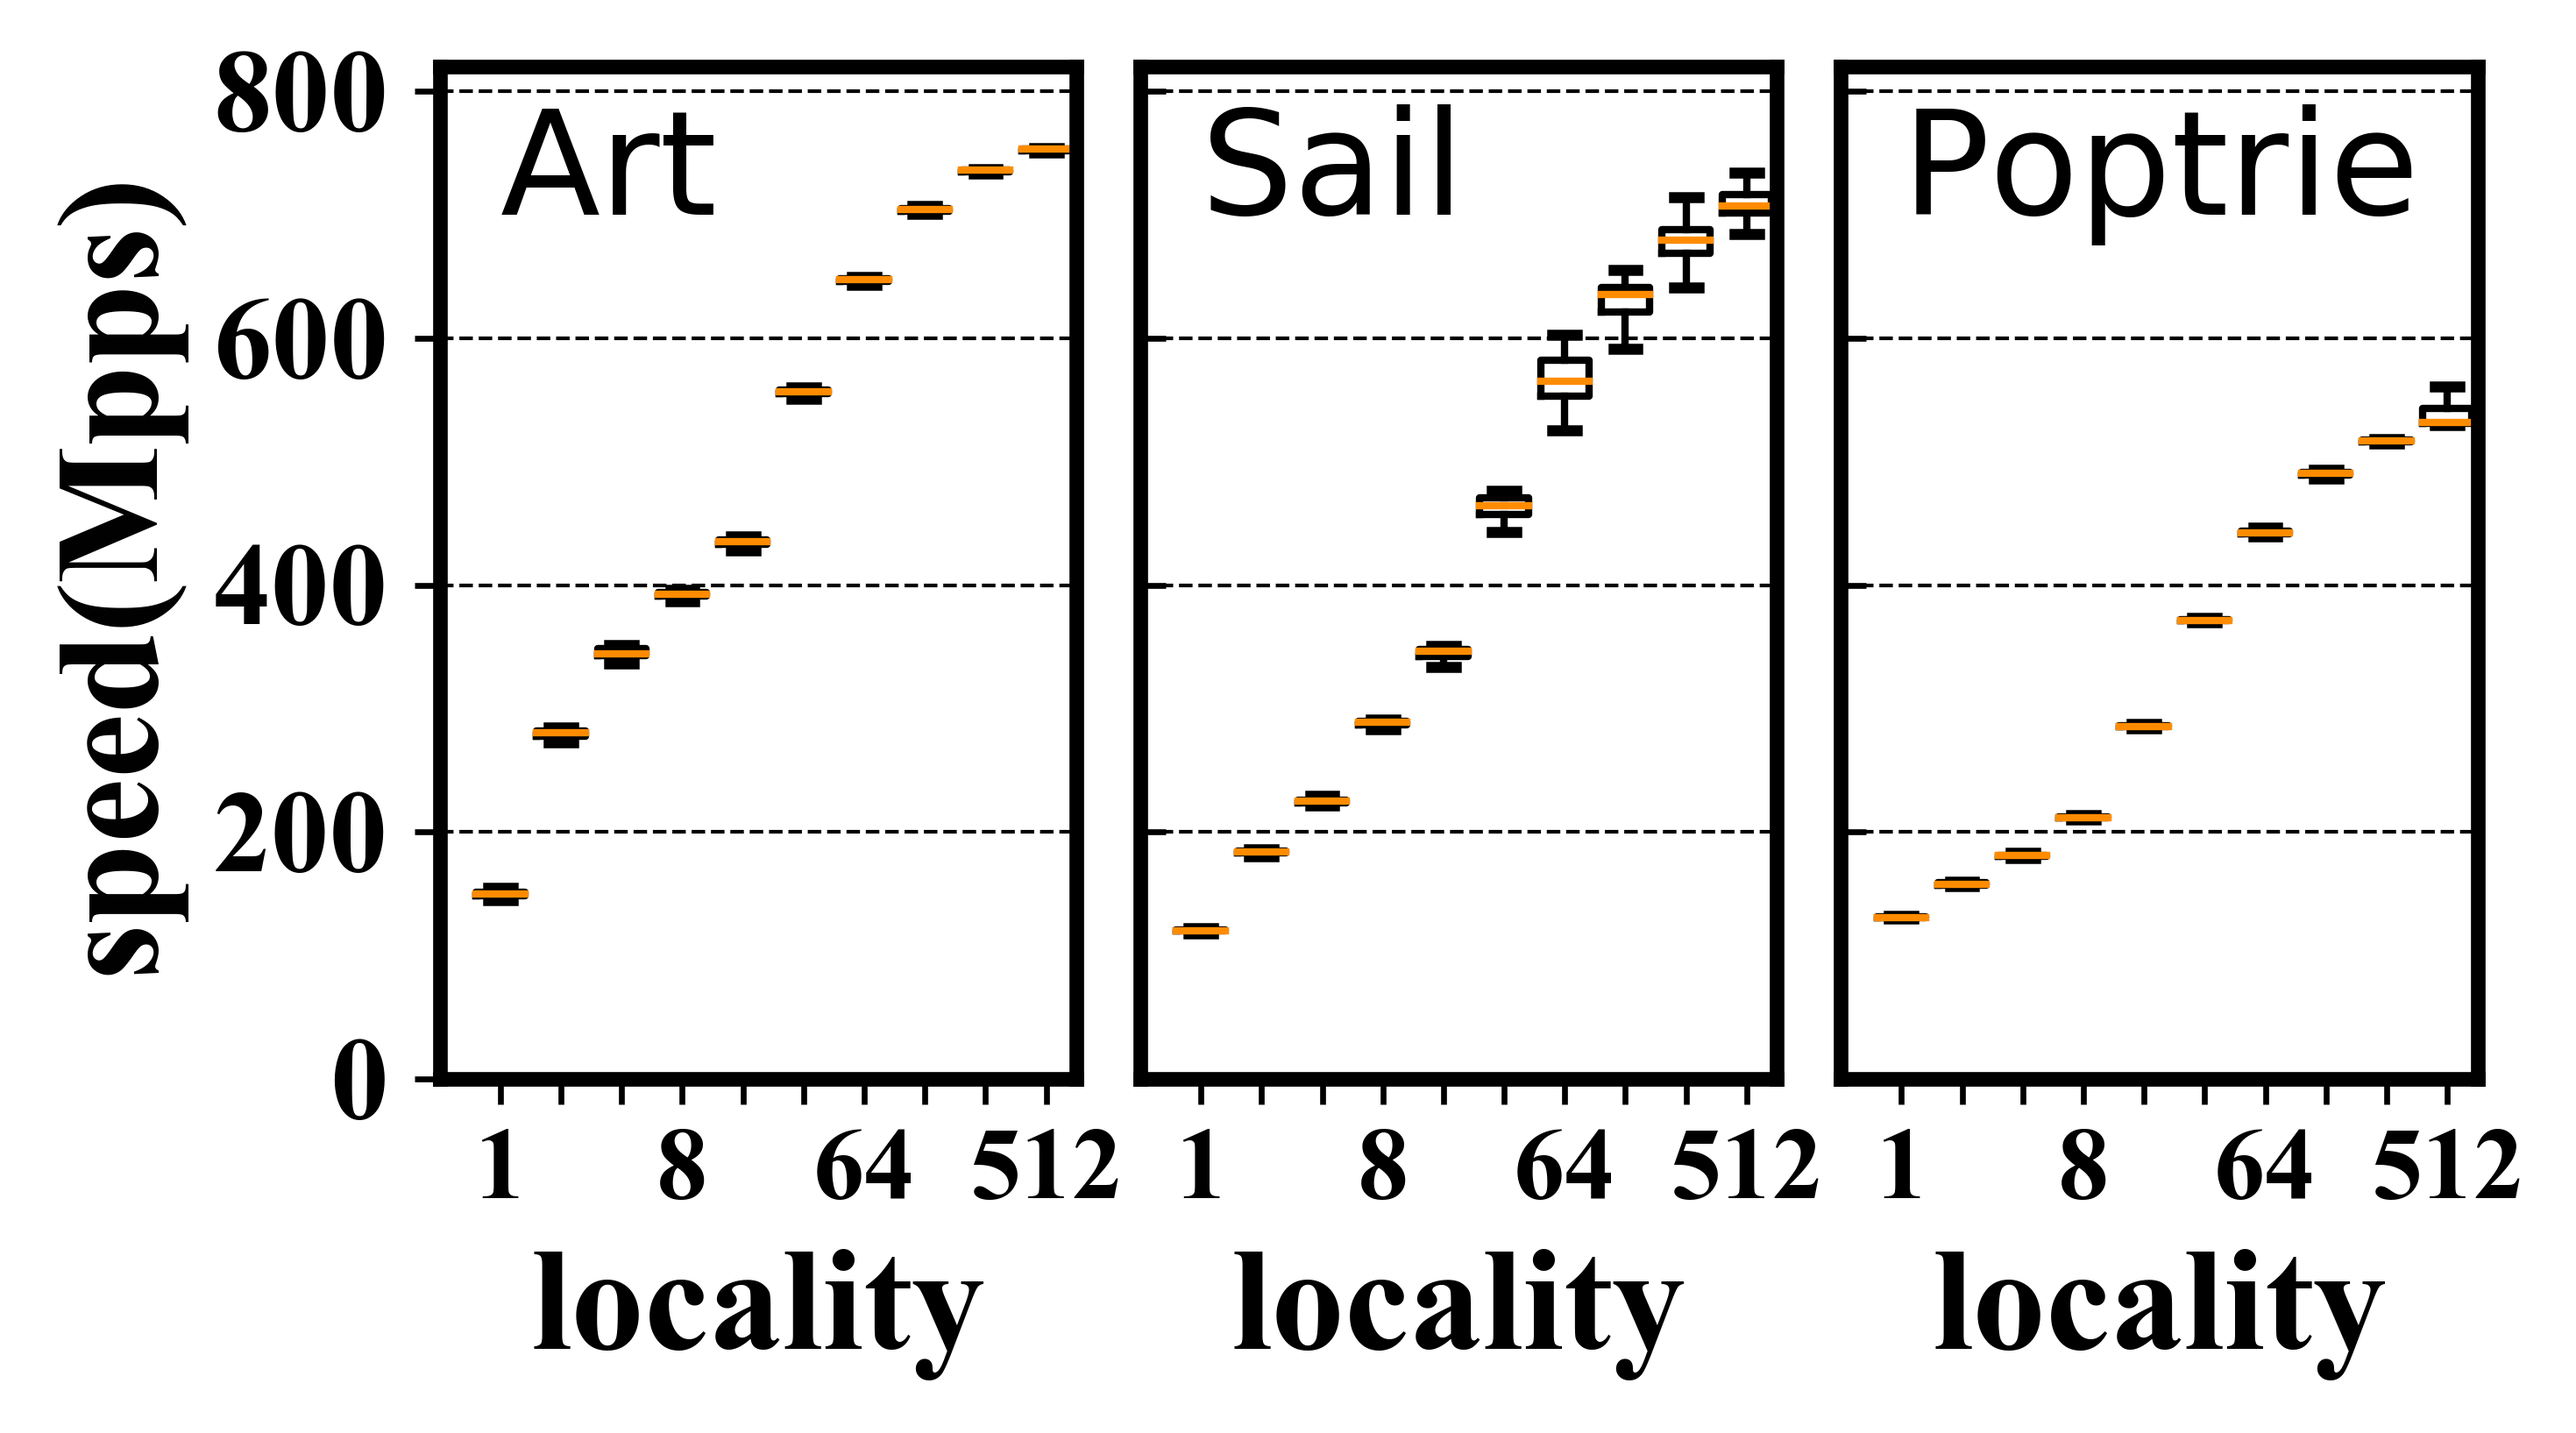
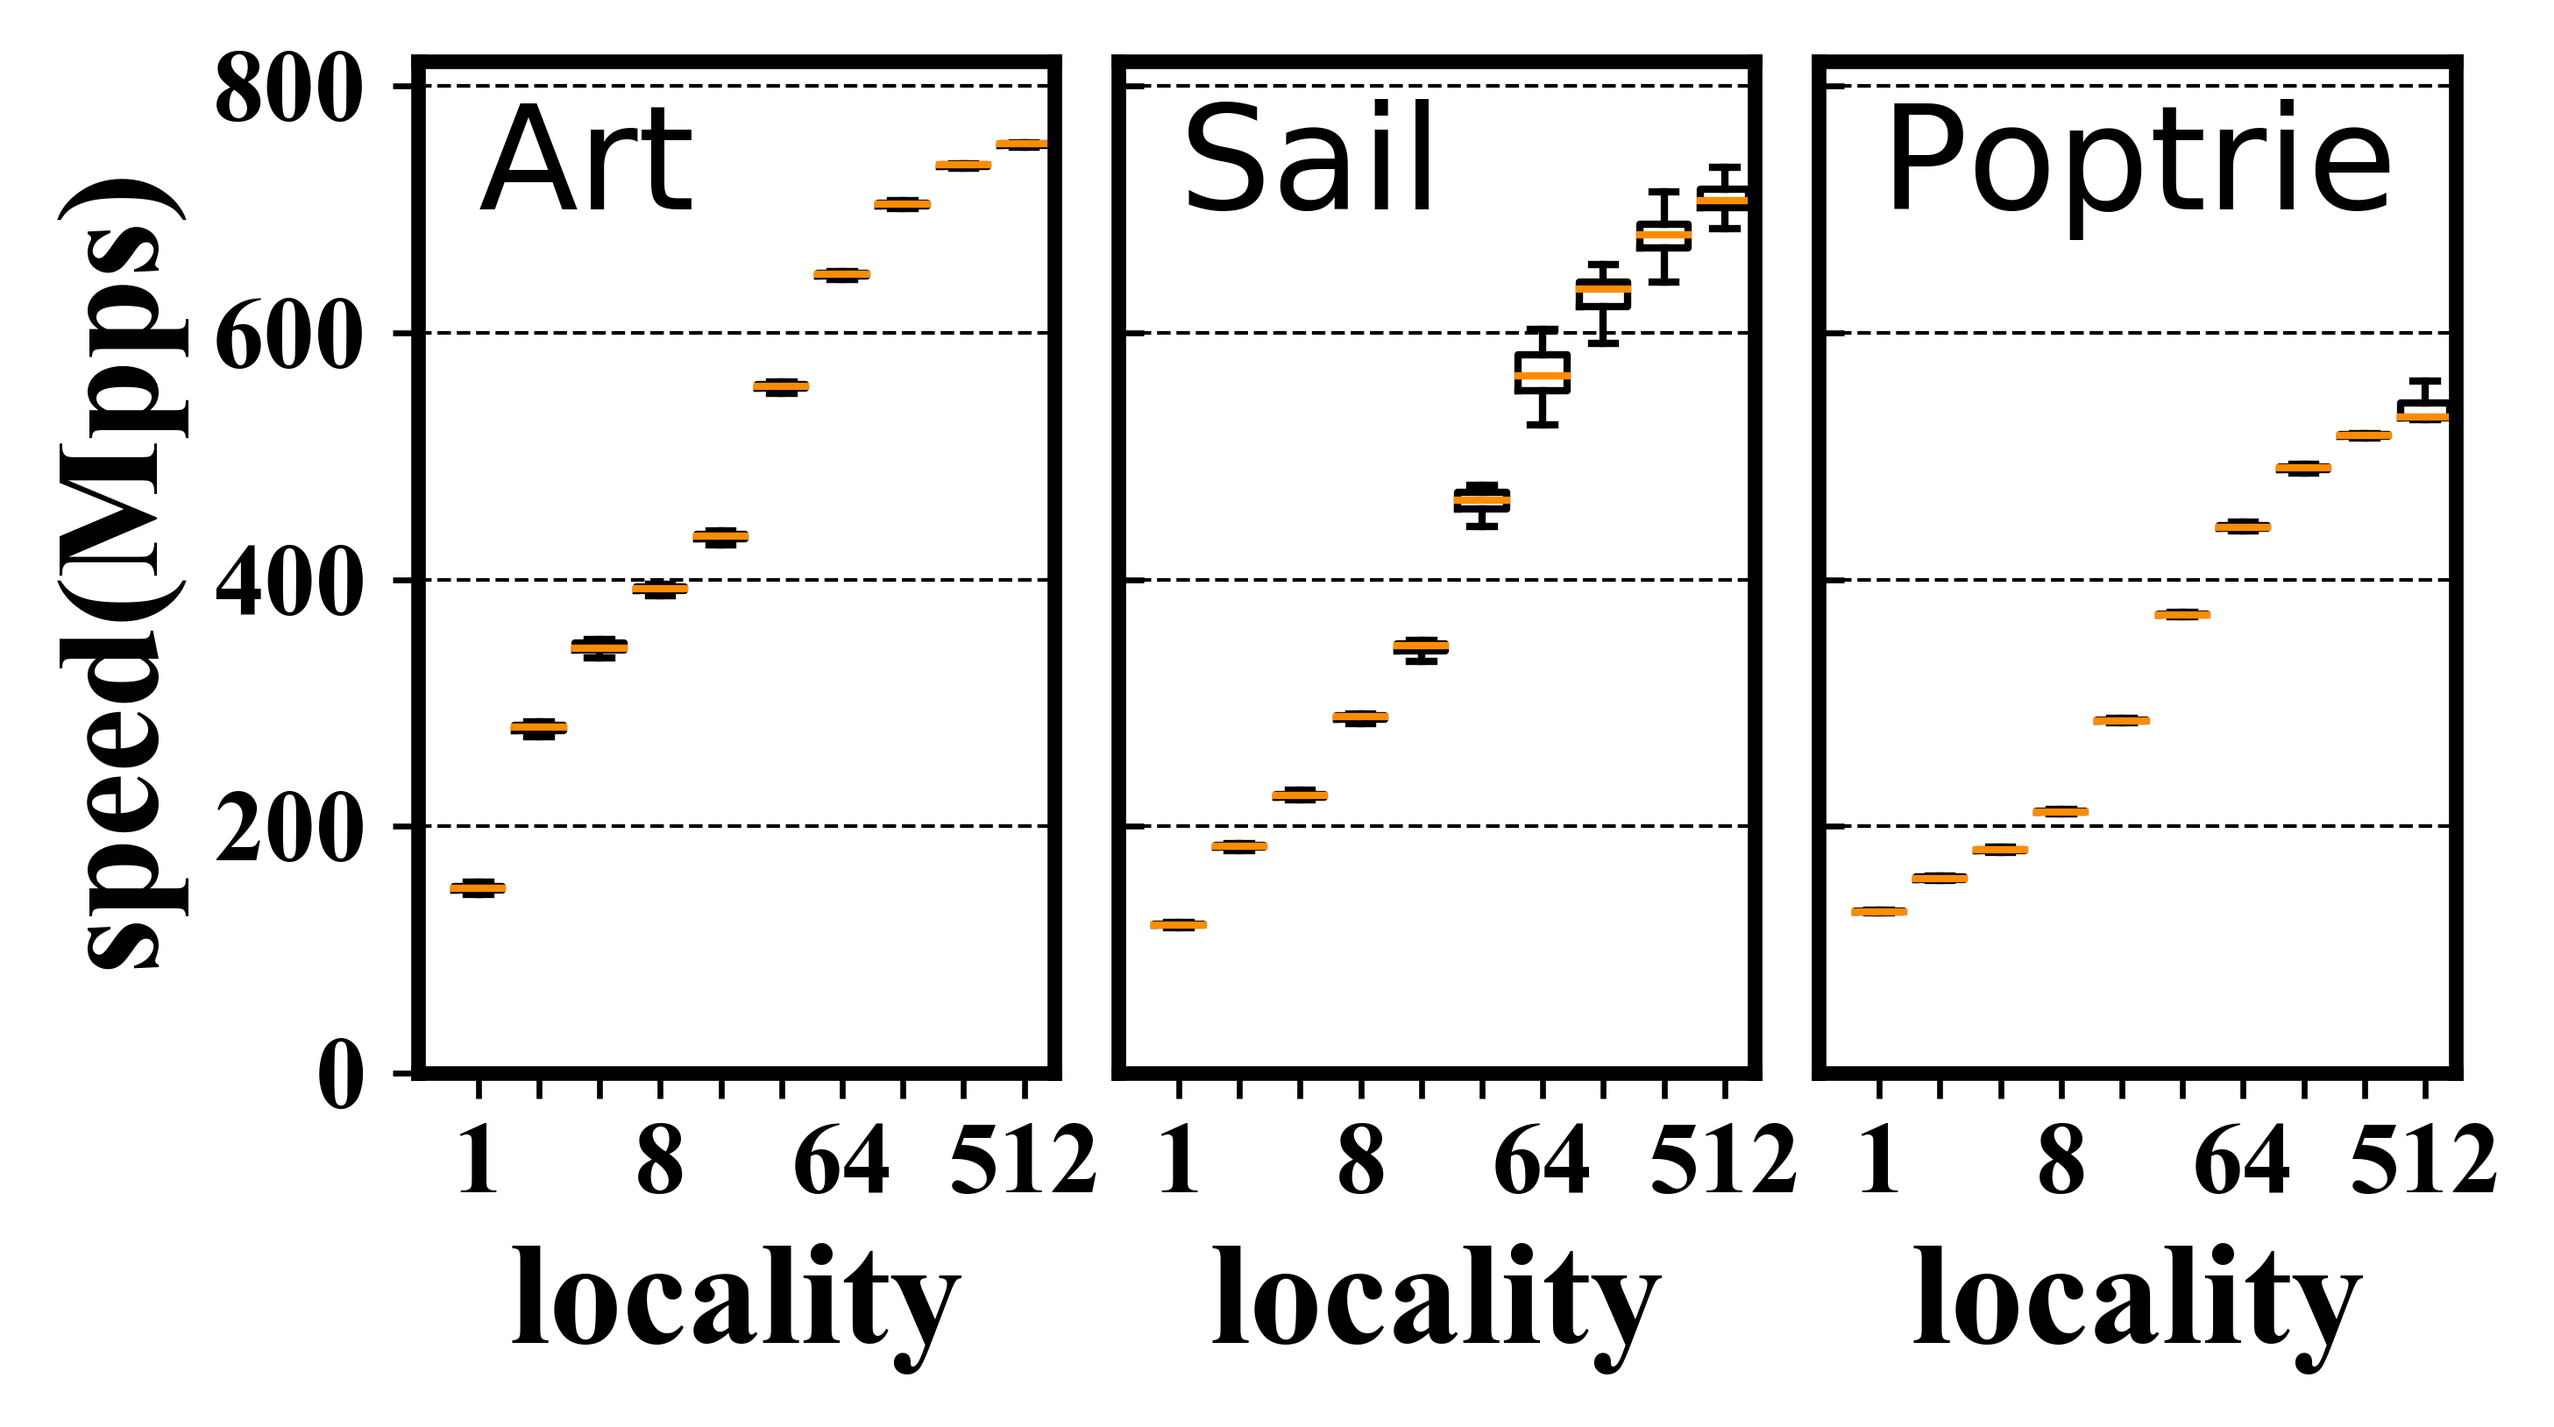
update example2 code

diff --git a/example2.py b/example2.py
@@ -4,9 +4,9 @@
 # @Date: 2020/1/7 19:29
 
 from utils import Utils
-import matplotlib.pyplot as plt
-import matplotlib
 import numpy as np
+from plot import Plot
+from plot import Save
 
 # 这是一个箱型图例子
 name = ['art', 'sail', 'poptrie']
@@ -16,72 +16,106 @@ header, sail_data = Utils.read_csv('sail' + '_loc512_rand.csv')
 sail_data = sail_data[1:]
 poptrie_data = Utils.read_csv('poptrie' + '_loc512_rand.csv', only_data=True)[1:]
 
-plt.figure(1, figsize=(5, 2.5), dpi=600)
-plt.tight_layout()
-plt.subplots_adjust(wspace=0.1)
-ax = plt.subplot(131)
-ax.set_axisbelow(True)  # 设置网格线和坐标轴是在figure的上面还是在下面
-ax.spines['bottom'].set_linewidth(2)  # 设置坐标轴宽度
-ax.spines['right'].set_linewidth(2)
-ax.spines['top'].set_linewidth(2)
-ax.spines['left'].set_linewidth(2)
-f = plt.boxplot(art_data, showfliers=False, widths=0.8)
-for cap in f['caps']:  # 把箱型图中的错误符号进行设置
-    cap.set(color='black', linewidth=1.5)
-for median in f['medians']:  # 把箱型图中的中位数符号进行设置
-    median.set(color='darkorange', linewidth=1)
-plt.xlim(0,10.5)
-plt.xticks(range(1, 11, 1), ['1', '', '', '8', '', '', '64', '', '', '512'], fontproperties='Times New Roman', size=14)
-plt.ylim(0, 820)
-plt.yticks(np.arange(0, 1000, 200), fontproperties='Times New Roman', size=16)
-font = {'family': 'Times New Roman', 'size': 20}
-plt.xlabel('locality', font)
-plt.ylabel('speed(Mpps)', font)
-plt.grid(axis='y', color='black', linewidth=0.5, linestyle='--')
-ax.text(1, 700, name[0].capitalize(), fontsize=20)
+Plot.create_figure((5, 2.5))
+Plot.plot_setting(131)
+f = Plot.plot_box(art_data)
+Plot.plot_xlim(0, 10.5)
+Plot.plot_xticks(np.arange(1, 11, 1), ['1', '', '', '8', '', '', '64', '', '', '512'], font_size=14)
+Plot.plot_ylim(0, 820)
+Plot.plot_yticks(np.arange(0, 1000, 200), font_size=14)
+Plot.plot_xlable('locality', font_size=20)
+Plot.plot_ylabel('speed(Mpps)', font_size=20)
+Plot.plot_grid()
+Plot.plot_text(1, 700, name[0].capitalize())
 
-matplotlib.rcParams['ytick.direction'] = 'in'  # 设置坐标轴刻度朝向
-ax = plt.subplot(132)
-ax.set_axisbelow(True)  # 设置网格线和坐标轴是在figure的上面还是在下面
-ax.spines['bottom'].set_linewidth(2)  # 设置坐标轴宽度
-ax.spines['right'].set_linewidth(2)
-ax.spines['top'].set_linewidth(2)
-ax.spines['left'].set_linewidth(2)
-f=plt.boxplot(sail_data, showfliers=False, widths=0.8)
-for cap in f['caps']:  # 把箱型图中的错误符号进行设置
-    cap.set(color='black', linewidth=1.5)
-for median in f['medians']:  # 把箱型图中的中位数符号进行设置
-    median.set(color='darkorange', linewidth=1)
-plt.xlim(0,10.5)
-plt.xticks(range(1, 11, 1), ['1', '', '', '8', '', '', '64', '', '', '512'], fontproperties='Times New Roman', size=14)
-plt.ylim(0, 820)
-plt.yticks([200, 400, 600, 800], ['', '', '', ''], fontproperties='Times New Roman', size=16)
-font = {'family': 'Times New Roman', 'size': 20}
-plt.xlabel('locality', font)
-plt.grid(axis='y', color='black', linewidth=0.5, linestyle='--')
-ax.text(1, 700, name[1].capitalize(), fontsize=20)
+Plot.plot_setting(132, ytick_dircetion='in')
+f = Plot.plot_box(sail_data)
+Plot.plot_xlim(0, 10.5)
+Plot.plot_xticks(np.arange(1, 11, 1), ['1', '', '', '8', '', '', '64', '', '', '512'], font_size=14)
+Plot.plot_ylim(0, 820)
+Plot.plot_yticks(np.arange(200, 1000, 200), ['', '', '', ''], font_size=14)
+Plot.plot_xlable('locality', font_size=20)
+Plot.plot_grid()
+Plot.plot_text(1, 700, name[1].capitalize(), fontsize=20)
 
-matplotlib.rcParams['ytick.direction'] = 'in'  # 设置坐标轴朝向
-ax = plt.subplot(133)
-ax.set_axisbelow(True)  # 设置网格线和坐标轴是在figure的上面还是在下面
-ax.spines['bottom'].set_linewidth(2)  # 设置坐标轴宽度
-ax.spines['right'].set_linewidth(2)
-ax.spines['top'].set_linewidth(2)
-ax.spines['left'].set_linewidth(2)
-f=plt.boxplot(poptrie_data, showfliers=False, widths=0.8)
-for cap in f['caps']:  # 把箱型图中的错误符号进行设置
-    cap.set(color='black', linewidth=1.5)
-for median in f['medians']:  # 把箱型图中的中位数符号进行设置
-    median.set(color='darkorange', linewidth=1)
-plt.xlim(0,10.5)
-plt.xticks(range(1, 11, 1), ['1', '', '', '8', '', '', '64', '', '', '512'], fontproperties='Times New Roman', size=14)
-plt.ylim(0, 820)
-plt.yticks([200, 400, 600, 800], ['', '', '', ''], fontproperties='Times New Roman', size=16)
-font = {'family': 'Times New Roman', 'size': 20}
-plt.xlabel('locality', font)
-plt.grid(axis='y', color='black', linewidth=0.5, linestyle='--')
-ax.text(1, 700, name[2].capitalize(), fontsize=20)
+Plot.plot_setting(133, ytick_dircetion='in')
+f = Plot.plot_box(poptrie_data)
+Plot.plot_xlim(0, 10.5)
+Plot.plot_xticks(np.arange(1, 11, 1), ['1', '', '', '8', '', '', '64', '', '', '512'], font_size=14)
+Plot.plot_ylim(0, 820)
+Plot.plot_yticks(np.arange(200, 1000, 200), ['', '', '', ''], font_size=14)
+Plot.plot_xlable('locality', font_size=20)
+Plot.plot_grid()
+Plot.plot_text(1, 700, name[2].capitalize(), fontsize=20)
 
-plt.savefig('result/example2.pdf', dpi=600, bbox_inches='tight')
-plt.savefig('example-picture/example2.png',dpi=600,bbox_inches='tight') # 保存为png文件
+Save.save('example2')
+
+# plt.figure(1, figsize=(5, 2.5), dpi=600)
+# plt.tight_layout()
+# plt.subplots_adjust(wspace=0.1)
+# ax = plt.subplot(131)
+# ax.set_axisbelow(True)  # 设置网格线和坐标轴是在figure的上面还是在下面
+# ax.spines['bottom'].set_linewidth(2)  # 设置坐标轴宽度
+# ax.spines['right'].set_linewidth(2)
+# ax.spines['top'].set_linewidth(2)
+# ax.spines['left'].set_linewidth(2)
+# f = plt.boxplot(art_data, showfliers=False, widths=0.8)
+# for cap in f['caps']:  # 把箱型图中的错误符号进行设置
+#     cap.set(color='black', linewidth=1.5)
+# for median in f['medians']:  # 把箱型图中的中位数符号进行设置
+#     median.set(color='darkorange', linewidth=1)
+# plt.xlim(0, 10.5)
+# plt.xticks(range(1, 11, 1), ['1', '', '', '8', '', '', '64', '', '', '512'], fontproperties='Times New Roman', size=14)
+# plt.ylim(0, 820)
+# plt.yticks(np.arange(0, 1000, 200), fontproperties='Times New Roman', size=16)
+# font = {'family': 'Times New Roman', 'size': 20}
+# plt.xlabel('locality', font)
+# plt.ylabel('speed(Mpps)', font)
+# plt.grid(axis='y', color='black', linewidth=0.5, linestyle='--')
+# plt.text(1, 700, name[0].capitalize(), fontsize=20)
+
+# matplotlib.rcParams['ytick.direction'] = 'in'  # 设置坐标轴刻度朝向
+# ax = plt.subplot(132)
+# ax.set_axisbelow(True)  # 设置网格线和坐标轴是在figure的上面还是在下面
+# ax.spines['bottom'].set_linewidth(2)  # 设置坐标轴宽度
+# ax.spines['right'].set_linewidth(2)
+# ax.spines['top'].set_linewidth(2)
+# ax.spines['left'].set_linewidth(2)
+# f = plt.boxplot(sail_data, showfliers=False, widths=0.8)
+# for cap in f['caps']:  # 把箱型图中的错误符号进行设置
+#     cap.set(color='black', linewidth=1.5)
+# for median in f['medians']:  # 把箱型图中的中位数符号进行设置
+#     median.set(color='darkorange', linewidth=1)
+# plt.xlim(0, 10.5)
+# plt.xticks(range(1, 11, 1), ['1', '', '', '8', '', '', '64', '', '', '512'], fontproperties='Times New Roman', size=14)
+# plt.ylim(0, 820)
+# plt.yticks([200, 400, 600, 800], ['', '', '', ''], fontproperties='Times New Roman', size=16)
+# font = {'family': 'Times New Roman', 'size': 20}
+# plt.xlabel('locality', font)
+# plt.grid(axis='y', color='black', linewidth=0.5, linestyle='--')
+# ax.text(1, 700, name[1].capitalize(), fontsize=20)
+
+# matplotlib.rcParams['ytick.direction'] = 'in'  # 设置坐标轴朝向
+# ax = plt.subplot(133)
+# ax.set_axisbelow(True)  # 设置网格线和坐标轴是在figure的上面还是在下面
+# ax.spines['bottom'].set_linewidth(2)  # 设置坐标轴宽度
+# ax.spines['right'].set_linewidth(2)
+# ax.spines['top'].set_linewidth(2)
+# ax.spines['left'].set_linewidth(2)
+# f = plt.boxplot(poptrie_data, showfliers=False, widths=0.8)
+# for cap in f['caps']:  # 把箱型图中的错误符号进行设置
+#     cap.set(color='black', linewidth=1.5)
+# for median in f['medians']:  # 把箱型图中的中位数符号进行设置
+#     median.set(color='darkorange', linewidth=1)
+# plt.xlim(0, 10.5)
+# plt.xticks(range(1, 11, 1), ['1', '', '', '8', '', '', '64', '', '', '512'], fontproperties='Times New Roman', size=14)
+# plt.ylim(0, 820)
+# plt.yticks([200, 400, 600, 800], ['', '', '', ''], fontproperties='Times New Roman', size=16)
+# font = {'family': 'Times New Roman', 'size': 20}
+# plt.xlabel('locality', font)
+# plt.grid(axis='y', color='black', linewidth=0.5, linestyle='--')
+# ax.text(1, 700, name[2].capitalize(), fontsize=20)
+
+# plt.savefig('result/example2.pdf', dpi=600, bbox_inches='tight')
+# plt.savefig('example-picture/example2.png',dpi=600,bbox_inches='tight') # 保存为png文件
 # plt.show()

diff --git a/plot.py b/plot.py
@@ -5,6 +5,7 @@
 
 import matplotlib.pyplot as plt
 from font import Font
+import matplotlib
 
 pdf_base_dir = 'result/'  # pdf保存的目录
 picture_base_dir = 'example-picture/'  # png格式保存的目录
@@ -13,17 +14,22 @@ picture_base_dir = 'example-picture/'  # png格式保存的目录
 class Plot:
 
     @staticmethod
-    def create_figure(figsize, dpi=600):
+    def create_figure(figsize, dpi=600, wspace=0.1):
         plt.figure(1, figsize=figsize, dpi=600)
+        plt.tight_layout()
+        plt.subplots_adjust(wspace=wspace)
 
     @staticmethod
-    def plot_setting(loc, axis_width=2):
+    def plot_setting(loc, axis_width=2, xtick_direction='out', ytick_dircetion='out'):
+        matplotlib.rcParams['xtick.direction'] = xtick_direction
+        matplotlib.rcParams['ytick.direction'] = ytick_dircetion  # 设置坐标轴刻度朝向
         ax = plt.subplot(loc)
         ax.set_axisbelow(True)  # 设置网格线和坐标轴是在figure的上面还是在下面
         ax.spines['bottom'].set_linewidth(axis_width)  # 设置坐标轴宽度
         ax.spines['right'].set_linewidth(axis_width)
         ax.spines['top'].set_linewidth(axis_width)
         ax.spines['left'].set_linewidth(axis_width)
+        return ax
 
     @staticmethod
     def plot_bar(x, height, color, bar_width=0.2, bottom=None, edgecolor='black', linewidth=1, hatch=None):
@@ -33,6 +39,24 @@ class Plot:
     def plot(data, label, color='black', marker=None, linestyle='-', markersize=10, linewidth=2, ):
         return plt.plot(data, label=label, color=color, marker=marker, markersize=markersize, linewidth=linewidth,
                         linestyle=linestyle)
+
+    @staticmethod
+    def plot_box(data, showfilers=False, widths=0.8, cap_color='black', cap_linewidth=1, median_color='darkorange',
+                 median_linewidth=1):
+        f = plt.boxplot(data, showfliers=showfilers, widths=widths)
+        for cap in f['caps']:  # 把箱型图中的错误符号进行设置
+            cap.set(color=cap_color, linewidth=cap_linewidth)
+        for median in f['medians']:  # 把箱型图中的中位数符号进行设置
+            median.set(color=median_color, linewidth=median_linewidth)
+        return f
+
+    @staticmethod
+    def plot_text(x, y, text, fontsize=20):
+        plt.text(x, y, text, fontsize=fontsize)
+
+    @staticmethod
+    def plot_xlim(start, end):
+        plt.xlim(start, end)
 
     @staticmethod
     def plot_xticks(ticks, label=None, font_size=16):
